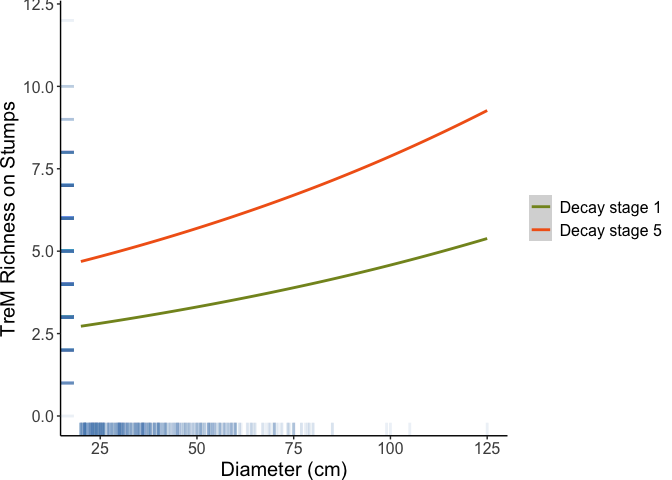
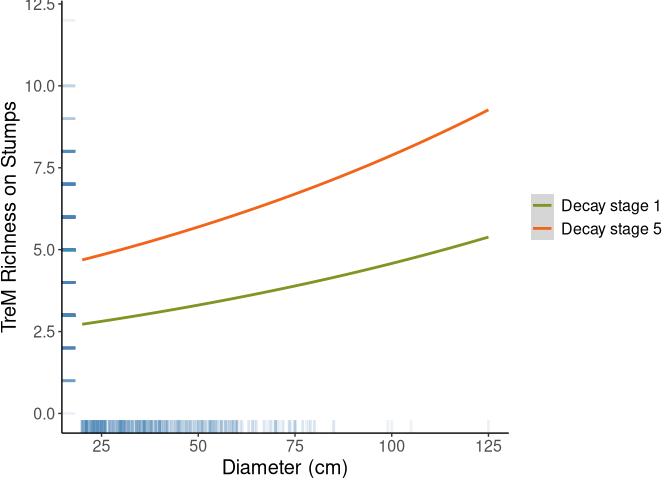
small updates to readme

diff --git a/README.md b/README.md
@@ -36,8 +36,11 @@ library(jovanovic2025)
 
 Import the data used for these analyses with `MasterThesisData2024`.
 `MasterThesisData2024` gives easy access to the table stored in
-`data-raw/MasterThesisData2024.csv`. `clean_data()` organizes
-`MasterThesisData2024` to be ready for analysis.
+`data-raw/MasterThesisData2024.csv`.
+
+`clean_data()` organizes `MasterThesisData2024` to be ready for
+analysis. An important step is to aggregate columns into microhabitat
+categories.
 
 ``` r
 TreMs <- clean_data(MasterThesisData2024) 
@@ -407,3 +410,10 @@ ggplot() +
 ```
 
 <img src="man/figures/README-unnamed-chunk-11-1.png" width="100%" />
+
+## Explore results
+
+check those pages for raw output from [all the
+models](https://pandionlabs.github.io/jovanovic2025/articles/all_models.html)
+and [all the
+plots](https://pandionlabs.github.io/jovanovic2025/articles/all_plots.html).
